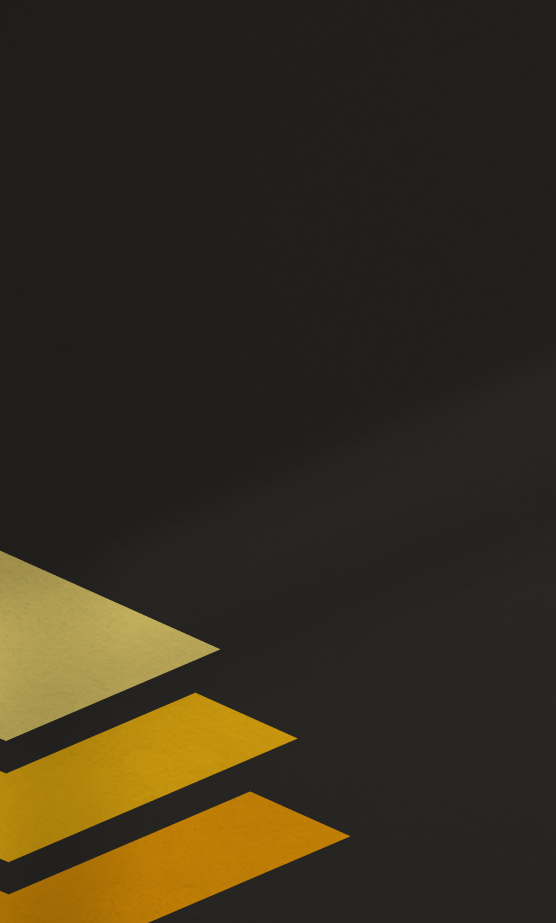
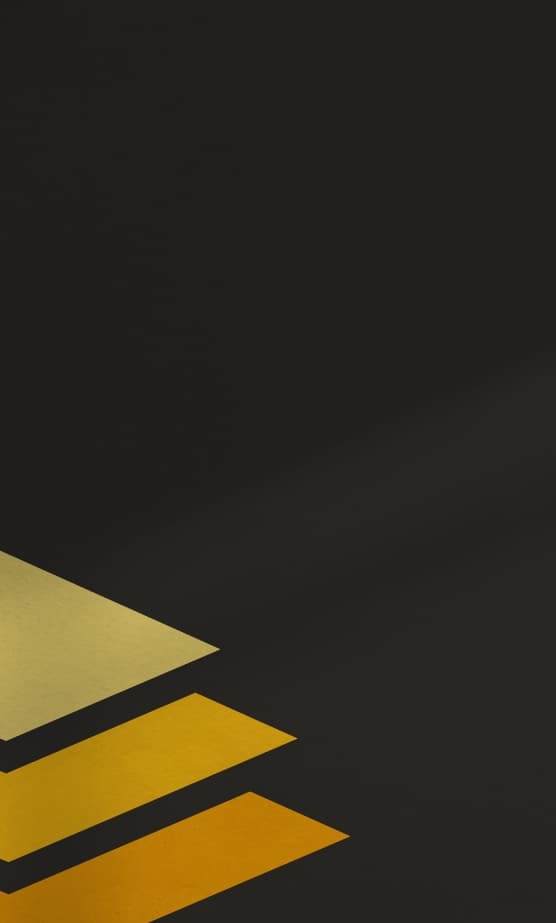
deploy scalar fin

Changed region(s): [[0.4892, 0.7887, 0.5198, 0.8191], [0.4281, 0.8191, 0.4586, 0.8494], [0.3975, 0.7584, 0.4281, 0.7887]]

diff --git a/src/app/[lang]/HeroSection.tsx b/src/app/[lang]/HeroSection.tsx
@@ -5,34 +5,16 @@ import { BsArrowRightShort as RightIcon } from 'react-icons/bs';
 import Image from 'next/image';
 import { BannerLayer, ParallaxBanner } from 'react-scroll-parallax';
 import scalarOverlayHero from '../images/scalar-hero-page-lines.png';
-import scalarHeroBg from '../images/scalar-hero-page-bg.png';
+import scalarHeroBg from '../images/scalar-hero-page-bg.jpg';
 import scalarHeroMobile from '../images/scalar-hero-mobile.jpg';
 import { useWindowSize } from '@uidotdev/usehooks';
-import { useEffect, useState } from 'react';
 
 const HeroSection = ({ lang }: { lang: string }) => {
   const { width: ClientW } = useWindowSize();
-  const [isMobile, setIsMobile] = useState(false);
 
-  // Throttle resize events to avoid too frequent updates
-  useEffect(() => {
-    const handleResize = () => {
-      setIsMobile(ClientW! <= 768);
-    };
-
-    // Throttle with setTimeout for better performance
-    const throttledResize = () => {
-      setTimeout(handleResize, 150);
-    };
-
-    window.addEventListener('resize', throttledResize);
-    return () => window.removeEventListener('resize', throttledResize);
-  }, [ClientW]);
-
-  // Background layer with optimised image loading
   const background: BannerLayer = {
-    translateY: [0, 10], // reduced translateY for smoother animation
-    shouldAlwaysCompleteAnimation: true, // Ensure complete animation
+    translateY: [0, 10],
+    shouldAlwaysCompleteAnimation: true,
     children: (
       <div className='w-full h-full relative'>
         <Image
@@ -49,9 +31,8 @@ const HeroSection = ({ lang }: { lang: string }) => {
     ),
   };
 
-  // Overlay layer with reduced intensity of parallax
   const overlay: BannerLayer = {
-    translateY: [0, 20], // reduced range for better performance
+    translateY: [0, 20],
     shouldAlwaysCompleteAnimation: true,
     easing: 'easeOutQuad',
     children: (
@@ -67,7 +48,6 @@ const HeroSection = ({ lang }: { lang: string }) => {
     ),
   };
 
-  // Foreground with conditional rendering for mobile devices
   const foreground: BannerLayer = {
     translateY: [0, 5],
     translateX: [0, 5],
@@ -87,10 +67,7 @@ const HeroSection = ({ lang }: { lang: string }) => {
     ),
   };
 
-  // Layer selection based on screen size
-  const layers = isMobile
-    ? [background] // Only background layer for mobile for better performance
-    : [background, overlay, foreground]; // Full parallax effect for desktop
+  const layers = [background, overlay, foreground];
 
   return (
     <section className='w-full min-h-fit'>

diff --git a/src/app/[lang]/AboutUsSection.tsx b/src/app/[lang]/AboutUsSection.tsx
@@ -1,5 +1,5 @@
 import Image from 'next/image';
-import scalarCEO from '../images/scalar-owner.png';
+import scalarCEO from '../images/scalar-owner.jpg';
 const paragraphs = [
   'Scalar d.o.o. je tvrtka s visokokvalitetnim inženjerskim kadrom iskusnim u pružanju inženjerskih usluga u graditeljstvu. Osnivač tvrtke, Jakov Galac, je iskusan inženjer i voditelj projekata s više od 10 godina profesionalnog staža. S obzirom na svoje prethodne uloge i kao predstavnik izvođača i kao predstavnik investitora, ima iskustva iz svih faza procesa planiranja, izgradnje i održavanja objekata.',
   'Poslovna strategija tvrtke je istaknuti se u inženjerskim uslugama kao što su upravljanje projektima, stručni nadzor, tehničko savjetovanje (konzultantske usluge) i projektiranje te pružiti kvalitetnu uslugu svojim klijentima s naglaskom na stručnost, dosljednost, povjerenje i uspješno ispunjavanje zadanih ciljeva. Cilj tvrtke je pružiti klijentima potpunu uslugu uz bliski i osobni pristup tijekom realizacije različitih vrsta građevinskih projekata.',
